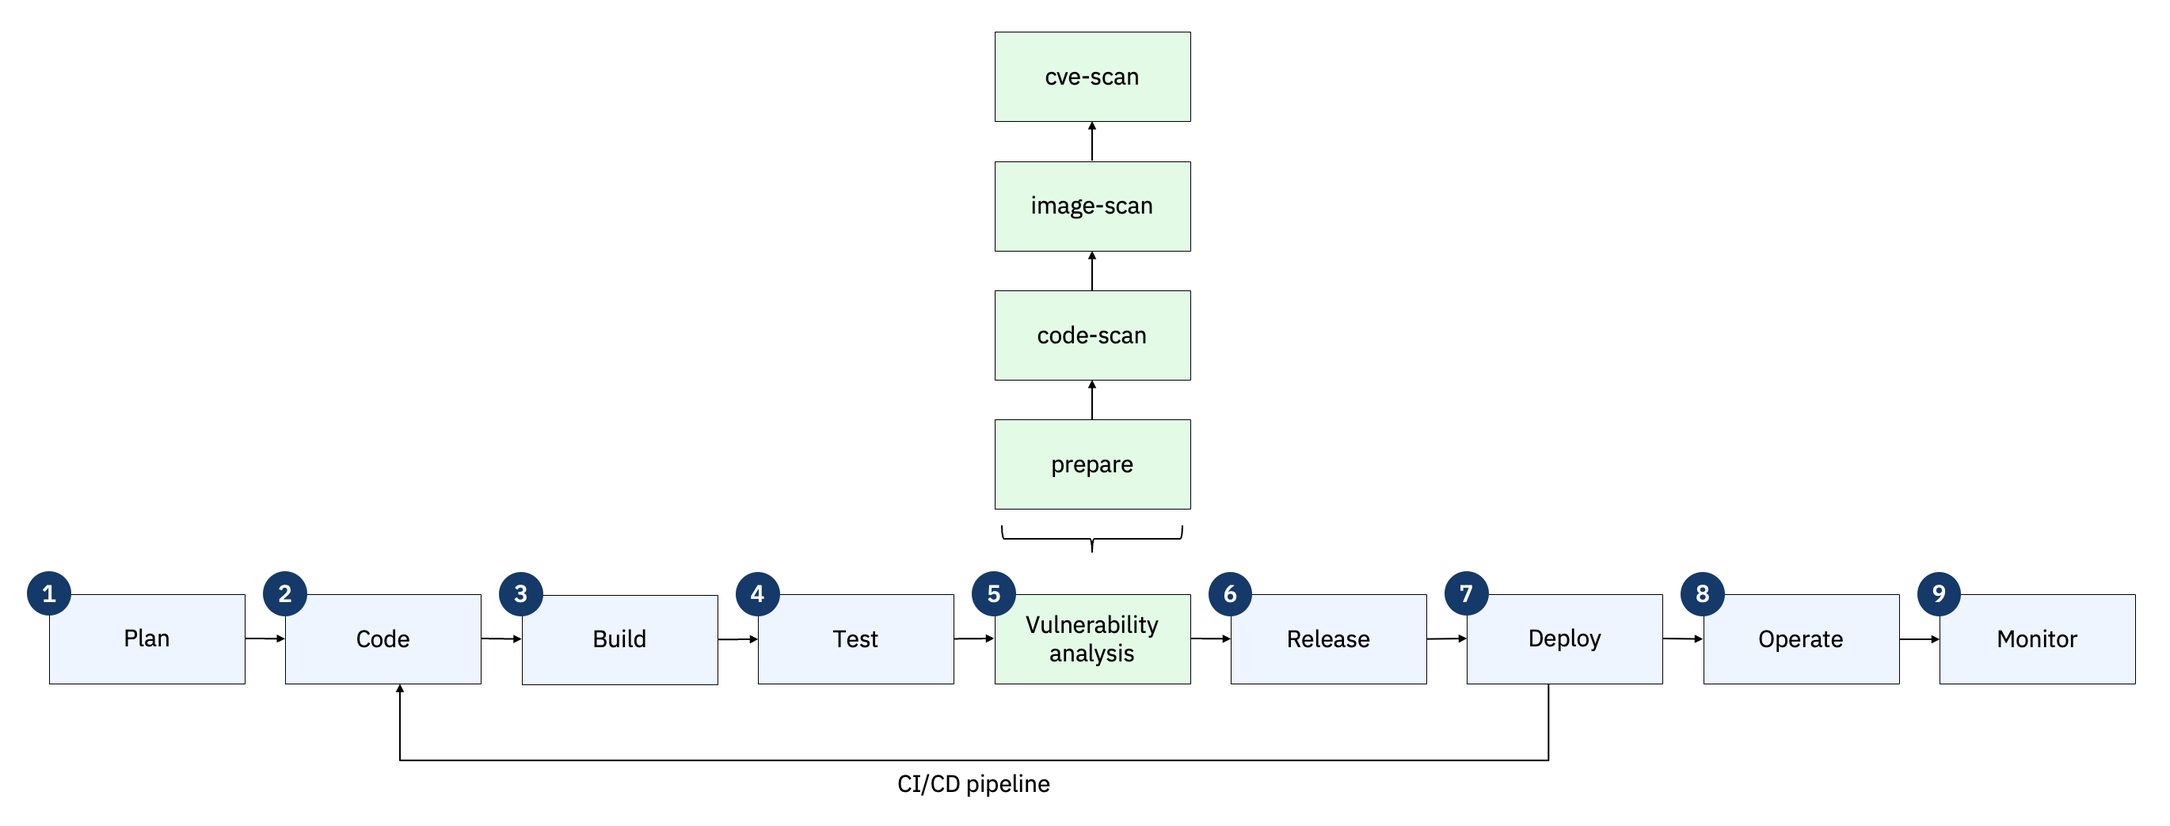
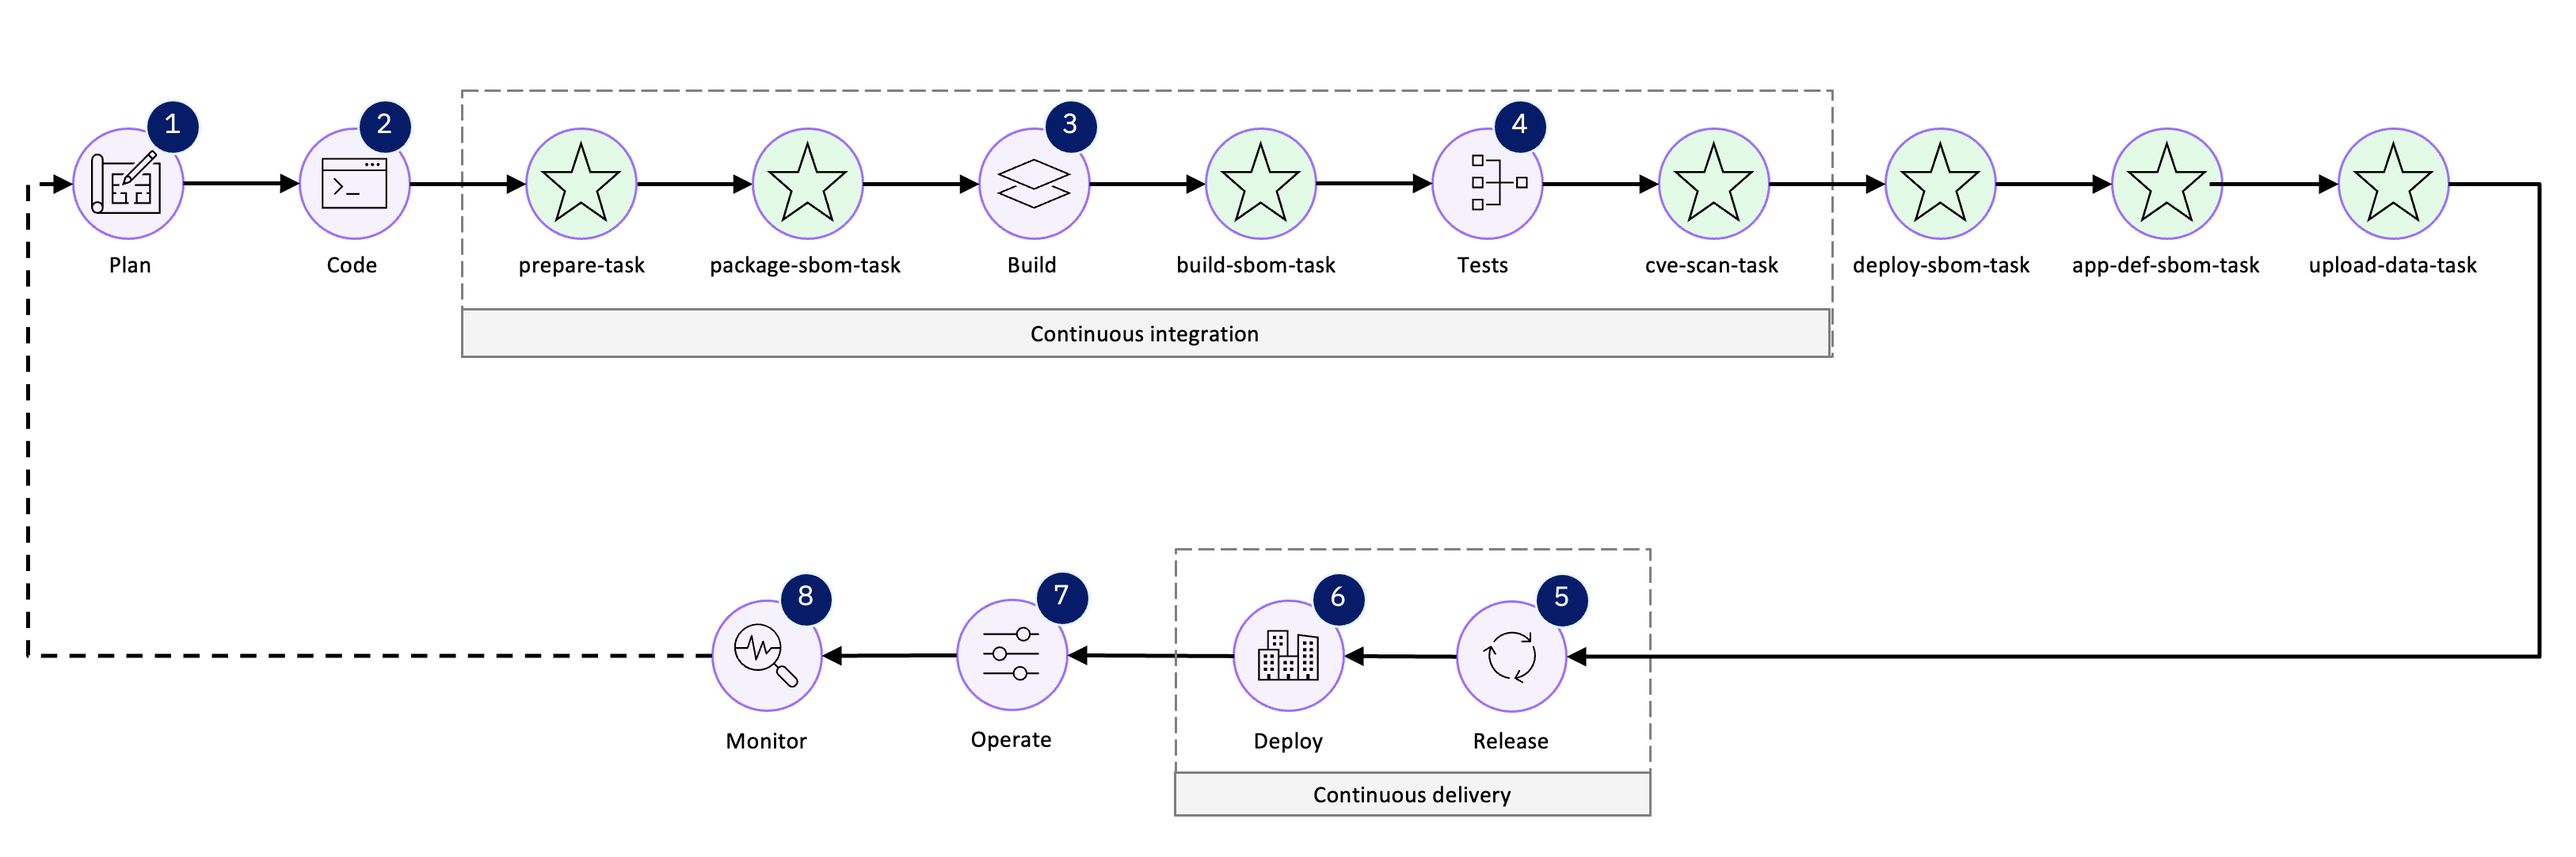
New changes

diff --git a/docs/tech-sales-enablement-customizing-customers-CICD-pipeline-for-ibm-concert/demo-instructions.md b/docs/tech-sales-enablement-customizing-customers-CICD-pipeline-for-ibm-concert/demo-instructions.md
@@ -37,11 +37,11 @@ This guide will show how to set up the customer pipeline for IBM Concert. We wil
 
 The following illustration presents the final structure of the CI/CD pipeline after the recommended changes:
 
-<img src="images/7.png" width="1200" /> <br/>
+<img src="images/3.png" width="1200" /> <br/>
 
 <br/>
 
-| **Action** 1.1 | Create a new task named **prepare-task** directly before the **build-task**. |
+| **Action** 1.1 | Create a new task named **prepare-task** immediately before the **build-task**. |
 | :--- | :--- |
 |  |  The purpose of this task is to download and configure the required IBM Concert toolkit image, as well as the source code repositories and container images for all microservices in the target application, ensuring the environment is fully prepared for subsequent analysis. |
 
@@ -53,30 +53,43 @@ The following illustration presents the final structure of the CI/CD pipeline af
 
 | **Action** 1.4 | In the newly created **package-sbom-task**, include the following code commands: <br/><br/> Run a **code-scan** using cdxgen on the application's source code to perform a static analysis and identify all static dependencies within the codebase: <br/><br/> <code class="code-block"> docker run --user 0 --platform "linux/amd64" \<br/>--volume "$(pwd)/toolkit-data:/toolkit-data" \<br/>--volume "$(pwd)/$src_repo:/$src_repo" \<br/>--interactive \<br/>--env JAVA_HOME="$JAVA_HOME" \<br/>"cp.stg.icr.io/cp/concert/toolkit/ibm-concert-toolkit:latest" \<br/>bash -c code-scan --src ${src_repo} --output-file ${DEMO_APP_NAME}-${service}-$<br/>{PACKAGE_SBOM_CODESCAN_OUTPUT_FILENAME_SUFFIX}</code> <br/><br/> Run an **image-scan** using Syft on the application's container images to perform a static analysis and identify all static dependencies within the image metadata: <br/><br/>  <code class="code-block"> docker run --user 0 --platform "linux/amd64" \<br/>--volume "$(pwd)/toolkit-data:/toolkit-data" \<br/>--volume "$(pwd)/$src_repo:/$src_repo" \<br/>--interactive \<br/>--env JAVA_HOME="$JAVA_HOME" \<br/>"cp.stg.icr.io/cp/concert/toolkit/ibm-concert-toolkit:latest" \<br/>bash -c image-scan --images ${IMAGES} </code>|
 
-| **Action** 1.5 | Update the existing **build-task** and add the following code commands at the end of the workbook: |
+| **Action** 1.5 | Create a new task named **build-sbom-task** immediately after the **build-task** and before the **test-task** and add the following code commands to the workbook: |
 |  |  The purpose of this new code command is to generate a Software Bill of Materials (SBOM) for the **build**, documenting all dependencies and tools utilized during the build process. For the build-sbom command to work correctly, it requires a configuration file that outlines <a href="https://github.ibm.com/ibm-concert-platinum-demos/concert-pm-utils/blob/64d2bb900519e1eacf06ca275f4f45af2d6263aa/macos/templates/build-sbom-config-template.yaml" target="_blank" rel="noreferrer">this information</a>. |
+
+|  |  Instead of merging the SBOM creation commands with the current build task, we recommend implementing them as a separate task within the customer pipeline. This approach ensures modularity and prevents modifications to existing, well-tested components.|
 
 |  |  <code class="code-block"> TOOLKIT_COMMAND="build-sbom --build-config ${OUTPUT_CONFIG_FILE}" <br/> <br/>if [ "$CONTAINERIZATION_PLATFORM" -eq 1 ]; then<br/>docker run --user 0 --platform ${PLATFORM_ARCH} \<br/>--volume "$(pwd)/toolkit-data:/toolkit-data" \<br/>--volume "$(pwd)/$TEMPLATES_DIR:/$TEMPLATES_DIR" \<br/>--volume "$(pwd)/$TMP_DIR:/$TMP_DIR" \<br/>--interactive \<br/>$CONCERT_TOOLKIT_IMAGE \<br/>bash -c "${TOOLKIT_COMMAND}"<br/>elif [ "$CONTAINERIZATION_PLATFORM" -eq 2 ]; then<br/>podman run --user 0 --platform ${PLATFORM_ARCH} \<br/>--volume "$(pwd)/toolkit-data:/toolkit-data" \<br/>--volume "$(pwd)/$TEMPLATES_DIR:/$TEMPLATES_DIR" \<br/>--volume "$(pwd)/$TMP_DIR:/$TMP_DIR" \<br/>--interactive \<br/>$CONCERT_TOOLKIT_IMAGE \<br/>bash -c "${TOOLKIT_COMMAND}"<br/>fi </code> |
 
-| **Action** 1.6 | Update the existing **test-task** and add the following code commands at the end of the workbook: |
+| **Action** 1.6 | Create a new task named **cve-scan-task** immediately after the **test-task** and add the following code commands to the workbook: |
 |  |  The purpose of this new code command is to scan the application's images for known vulnerabilities by analyzing the components identified in the Software Bill of Materials (SBOM) and cross-referencing them against the CVE (Common Vulnerabilities and Exposures) database. This process helps to identify any known vulnerabilities and assess their potential impact on the application. <br/><br/> **TEMPLATE_GRYPE_FILE** refers to the path of the Grype template that maps each Grype output to the format required by IBM Concert. You can download this file <a href="https://github.ibm.com/ibm-concert-platinum-demos/concert-pm-utils/blob/64d2bb900519e1eacf06ca275f4f45af2d6263aa/macos/templates/grype-cve.tmpl" target="_blank" rel="noreferrer">here</a>. |
+
+|  |  Instead of merging the SBOM creation commands with the current test task, we recommend implementing them as a separate task within the customer pipeline. This approach ensures modularity and prevents modifications to existing, well-tested components.|
 
 |  |  <code class="code-block"> grype "${image}" --by-cve -o template -t "${TEMPLATE_GRYPE_FILE}" > "${OUTPUT_DIR}/${OUTPUT_FILENAME}" </code> |
 
 |  |  Templates are currently available for Twistlock, Grype, Trivy, Tenable and Fortify. For other scanning tools, please send the CSV file to the product management team, and we will generate the necessary mapping.|
 
-| **Action** 1.7 | Create a new task named **post-build-task** immediately after the **build-task** and before the **release-task**. |
+| **Action** 1.7 | Create a new task named **deploy-sbom-task**  after the **build-task** and the recently created **cve-scan-task**. |
 
-|  |  The purpose of this new task is to create the deploy and app definition SBOMs using two essential commands: deploy-sbom and app-def-sbom. |
+|  |  The purpose of this new task is to create the deploy SBOM. |
 
-| **Action** 1.8 | In the newly created **post-build-task**, include the following code commands: <br/><br/> The purpose of the first command below is to generate an SBOM for the deployment environment, providing detailed information about the infrastructure and configuration files used during deployment. For the deploy-sbom task to run successfully, it requires a configuration file that outlines <a href="https://github.ibm.com/ibm-concert-platinum-demos/concert-pm-utils/blob/64d2bb900519e1eacf06ca275f4f45af2d6263aa/macos/templates/deploy-sbom-config-template.yaml" target="_blank" rel="noreferrer">this information</a> <br/><br/> <code class="code-block"> docker run --user 0 --platform "linux/amd64" \<br/>--volume "$(pwd)/toolkit-data:/toolkit-data" \<br/>--volume "$(pwd)/$TEMPLATES_DIR:/$TEMPLATES_DIR" \<br/>--volume "$(pwd)/$TMP_DIR:/$TMP_DIR" \<br/>--interactive \<br/>"cp.stg.icr.io/cp/concert/toolkit/ibm-concert-toolkit:latest" \<br/> bash -c "deploy-sbom --deploy-config ${OUTPUT_CONFIG_FILE}"<br/></code> <br/><br/> The purpose of the second command is to generate the app-definition SBOM, which provides a detailed overview of the application’s modules, libraries, and dependencies. For the app-definition task to execute successfully, it requires a configuration file that outlines <a href="https://github.ibm.com/ibm-concert-platinum-demos/concert-pm-utils/blob/64d2bb900519e1eacf06ca275f4f45af2d6263aa/macos/templates/app-def-sbom-config-template.yaml" target="_blank" rel="noreferrer">this information</a>. <br/><br/>  <code class="code-block"> docker run --user 0 --platform "linux/amd64" \<br/>--volume "$(pwd)/toolkit-data:/toolkit-data" \<br/>--volume "$(pwd)/$TEMPLATES_DIR:/$TEMPLATES_DIR" \<br/>--volume "$(pwd)/$TMP_DIR:/$TMP_DIR" \<br/> --interactive \<br/>"cp.stg.icr.io/cp/concert/toolkit/ibm-concert-toolkit:latest" \<br/>bash -c "app-sbom --app-config ${OUTPUT_CONFIG_FILE}"<br/> </code>|
+| **Action** 1.8 | In the newly created **deploy-sbom-task**, include the following code commands: <br/><br/> The purpose of the command below is to generate an SBOM providing detailed information about the infrastructure and configuration files used during the deployment. For the deploy-sbom task to run successfully, it requires a configuration file that outlines <a href="https://github.ibm.com/ibm-concert-platinum-demos/concert-pm-utils/blob/64d2bb900519e1eacf06ca275f4f45af2d6263aa/macos/templates/deploy-sbom-config-template.yaml" target="_blank" rel="noreferrer">this information</a> <br/><br/> <code class="code-block"> docker run --user 0 --platform "linux/amd64" \<br/>--volume "$(pwd)/toolkit-data:/toolkit-data" \<br/>--volume "$(pwd)/$TEMPLATES_DIR:/$TEMPLATES_DIR" \<br/>--volume "$(pwd)/$TMP_DIR:/$TMP_DIR" \<br/>--interactive \<br/>"cp.stg.icr.io/cp/concert/toolkit/ibm-concert-toolkit:latest" \<br/> bash -c "deploy-sbom --deploy-config ${OUTPUT_CONFIG_FILE}"<br/></code> <br/>|
 
-| **Action** 1.9 | Create a new task named **upload-data-task** immediately after the **post-build-task**. |
+| **Action** 1.9 | Create a new task named **app-def-sbom-task**  after the **deploy-sbom-task**. |
+
+|  |  The purpose of this new task is to create the app-definition SBOM. |
+
+| **Action** 1.10 | In the newly created **app-def-sbom-task**, include the following code commands: <br/><br/> The purpose of this command is to generate the app-definition SBOM, which provides a detailed overview of the application’s modules, libraries, and dependencies. For the app-definition-sbom task to execute successfully, it requires a configuration file that outlines <a href="https://github.ibm.com/ibm-concert-platinum-demos/concert-pm-utils/blob/64d2bb900519e1eacf06ca275f4f45af2d6263aa/macos/templates/app-def-sbom-config-template.yaml" target="_blank" rel="noreferrer">this information</a>. <br/><br/>  <code class="code-block"> docker run --user 0 --platform "linux/amd64" \<br/>--volume "$(pwd)/toolkit-data:/toolkit-data" \<br/>--volume "$(pwd)/$TEMPLATES_DIR:/$TEMPLATES_DIR" \<br/>--volume "$(pwd)/$TMP_DIR:/$TMP_DIR" \<br/> --interactive \<br/>"cp.stg.icr.io/cp/concert/toolkit/ibm-concert-toolkit:latest" \<br/>bash -c "app-sbom --app-config ${OUTPUT_CONFIG_FILE}"<br/> </code>|
+
+| **Action** 1.11 | Create a new task named **upload-data-task** immediately after the **app-def-sbom-task**. |
 
 |  |  The purpose of this task is to upload all generated SBOMs and security data to IBM Concert for comprehensive analysis, tracking, and validation. For the app-definition task to execute successfully, it requires a configuration file that outlines <a href="https://github.ibm.com/ibm-concert-platinum-demos/concert-pm-utils/blob/64d2bb900519e1eacf06ca275f4f45af2d6263aa/macos/templates/config.yaml" target="_blank" rel="noreferrer">this information</a>.|
 
-| **Action** 1.10 | In the newly created  **upload-data-task**, include the following code commands: <br/><code class="code-block"> docker run --user 0 --platform "linux/amd64" \<br/>--volume "$(pwd)/toolkit-data:/toolkit-data" \<br/>--volume "$(pwd)/$TEMPLATES_DIR:/$TEMPLATES_DIR" \<br/>--volume "$(pwd)/$TMP_DIR:/$TMP_DIR" \<br/>--interactive \<br/>"cp.stg.icr.io/cp/concert/toolkit/ibm-concert-toolkit:latest" \<br/>bash -c "upload-concert --upload-config ${OUTPUT_DIR}/${DEMO_APP_NAME}-concert-upload-config.yaml"</code> |
+| **Action** 1.12 | In the newly created  **upload-data-task**, include the following code commands: <br/><code class="code-block"> docker run --user 0 --platform "linux/amd64" \<br/>--volume "$(pwd)/toolkit-data:/toolkit-data" \<br/>--volume "$(pwd)/$TEMPLATES_DIR:/$TEMPLATES_DIR" \<br/>--volume "$(pwd)/$TMP_DIR:/$TMP_DIR" \<br/>--interactive \<br/>"cp.stg.icr.io/cp/concert/toolkit/ibm-concert-toolkit:latest" \<br/>bash -c "upload-concert --upload-config ${OUTPUT_DIR}/${DEMO_APP_NAME}-concert-upload-config.yaml"</code> |
 
+The following represents the final state of the pipeline after incorporating the proposed new tasks:
+
+<img src="images/4.png" width="1200" /> <br/>
 
 
 **[Go to top](#top)**
